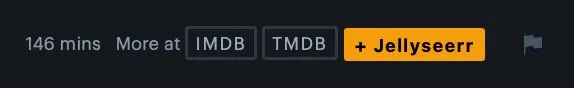
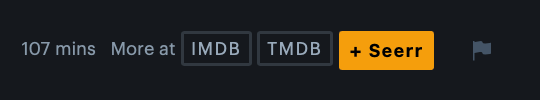
docs: center screenshots in readme

Changed region(s): [[0.0296, 0.2955, 0.9481, 0.7273]]

diff --git a/README.fr.md b/README.fr.md
@@ -2,9 +2,11 @@
 
 [🇫🇷 Français](README.fr.md) | [🇬🇧 English](README.md)
 
-![Bouton](assets/button.png)
-
-![Notification](assets/notification.png)
+<p align="center">
+  <img src="assets/button.png" alt="Bouton" />
+  <br/><br/>
+  <img src="assets/notification.png" alt="Notification" />
+</p>
 
 ## Langues supportées
 

diff --git a/README.md b/README.md
@@ -2,9 +2,11 @@
 
 [🇫🇷 Français](README.fr.md) | [🇬🇧 English](README.md)
 
-![Button](assets/button.png)
-
-![Notification](assets/notification.png)
+<p align="center">
+  <img src="assets/button.png" alt="Button" />
+  <br/><br/>
+  <img src="assets/notification.png" alt="Notification" />
+</p>
 
 ## Supported languages
 